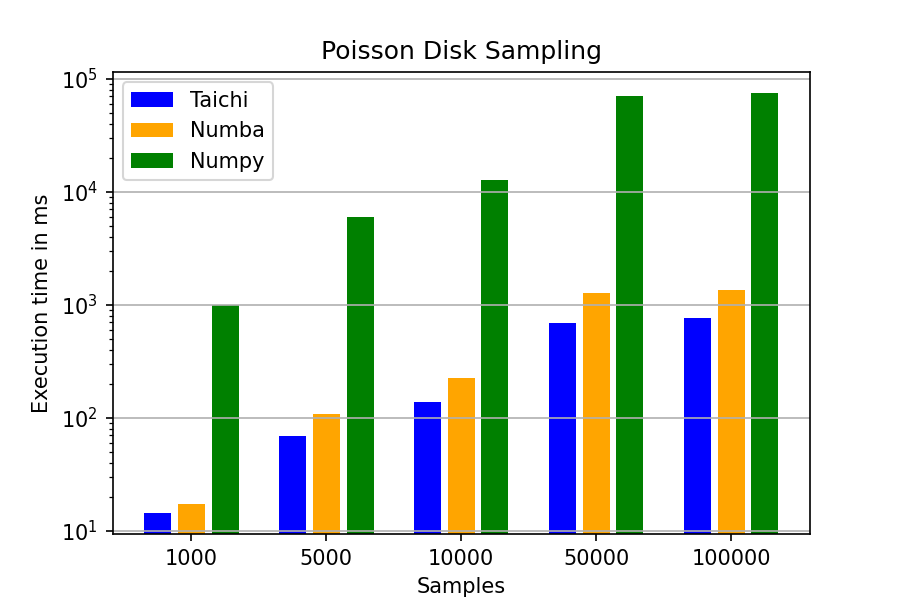
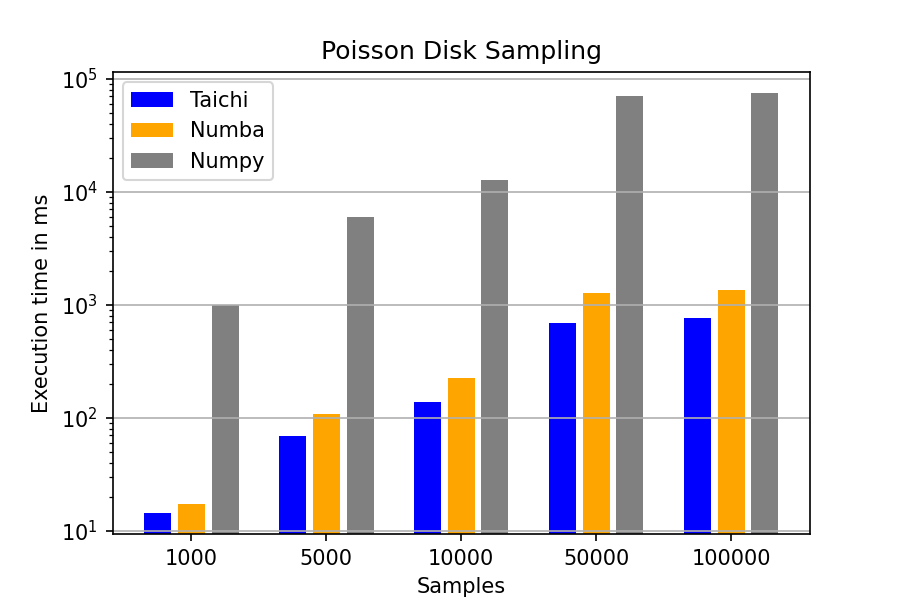
Update poisson

diff --git a/poisson/src/taichi/poisson_disk.py b/poisson/src/taichi/poisson_disk.py
@@ -87,7 +87,7 @@ def run_poisson(desired_samples = 100000):
     def run():
         import time
         sample()  # Warm up
-        repeats = 5
+        repeats = 15
 
         t = time.perf_counter()
         for i in range(repeats):
@@ -98,6 +98,6 @@ def run_poisson(desired_samples = 100000):
     return run()
 
 if __name__ == '__main__':
-    desired_samples = 1000
+    desired_samples = 100000
     print(run_poisson(desired_samples))
 

diff --git a/poisson/plot_benchmark.py b/poisson/plot_benchmark.py
@@ -40,7 +40,7 @@ def plot_bar(numpy_results, numba_results, taichi_results):
     ax.bar(bar_pos, y_numba, color='orange')
 
     bar_pos = [i * 4 + 2 for i in range(len(x_numpy))]
-    ax.bar(bar_pos, y_numpy, color='green')
+    ax.bar(bar_pos, y_numpy, color='gray')
 
     bar_pos_ticks = [i * 4 + 1 for i in range(len(x_taichi))]
     ax.set_xticks(bar_pos_ticks, labels)

diff --git a/poisson/README.md b/poisson/README.md
@@ -5,7 +5,7 @@ In this benchmark, we compare three Poisson Disk Sampling implementations among
 Taichi, Numpy, and Numba.
 The algorithm is suitable for single-threaded performance comparisons.
 
-<img src="demo/demo.gif" height="270px">
+<img src="demo/demo.gif" height="370px" />
 
 ## Evaluation
 We conduct performance evaluation on the following device.
@@ -18,23 +18,22 @@ We conduct performance evaluation on the following device.
 
 Performance is measured in milliseconds (ms), we run over different
 number of samples.
-
-<p align="center">
-<img src="fig/bench.png" width="600">
-</p>
-
 The reported times are measured using a 400 x 400 grid. 
 The employed Taichi version 
 is [0.9.2](https://github.com/taichi-dev/taichi/releases/tag/v0.9.2), 
 the Numpy version is 1.21.5, the Numba version is 1.55.1, and the 
 python version is 3.9.
 
+<p align="center">
+<img src="fig/bench.png" width="600">
+</p>
+
 ## Reproduction Steps
 
 * Pre-requisites
 ```shell
 python3 -m pip install numpy numba
-python3 -m pip install taichi==0.9.2 
+python3 -m pip install taichi
 python3 -m pip install matplotlib
 ```
 * Run the benchmark and draw the plots
